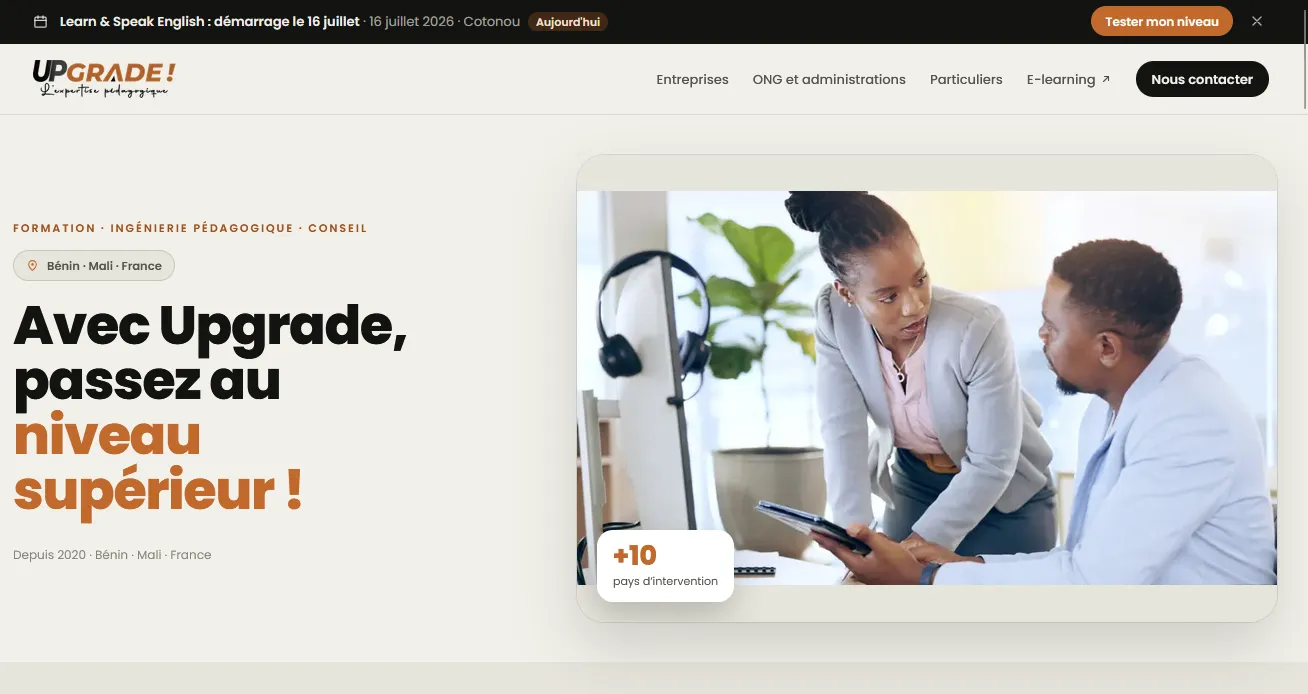
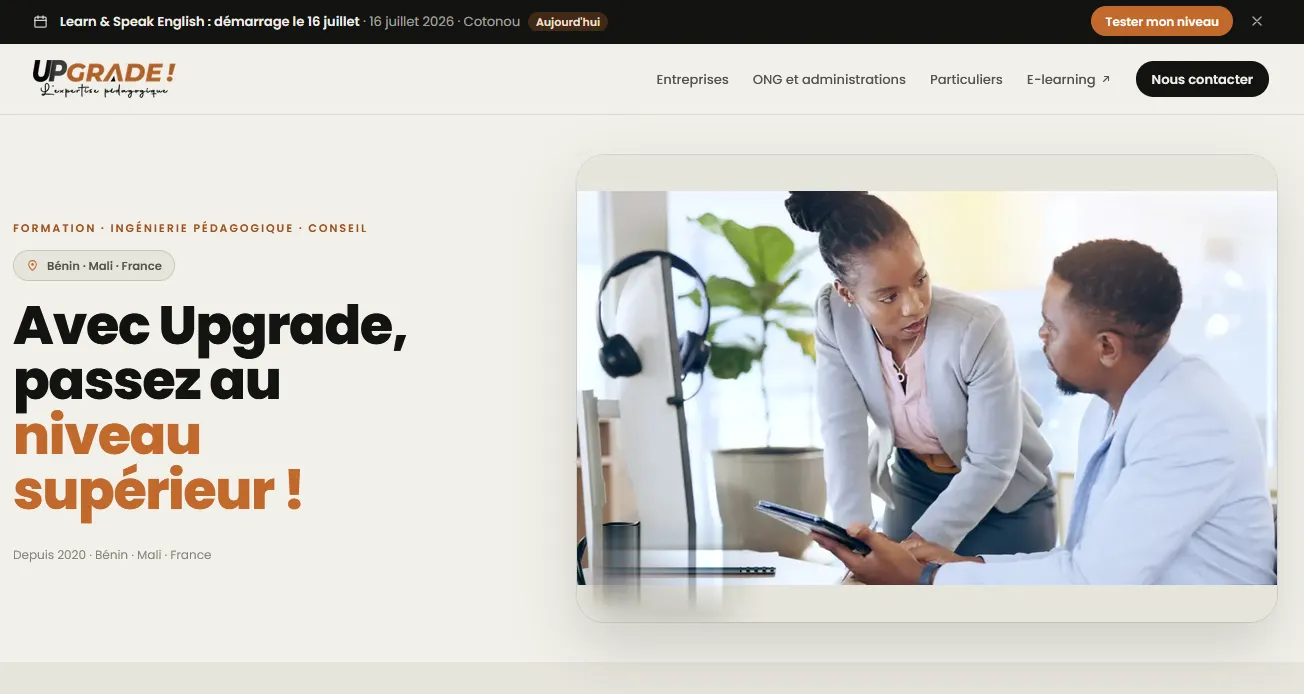
fix(v6): case-study JSON-LD roles and remaining capture redactions

diff --git a/tests/unit/case-jsonld.test.ts b/tests/unit/case-jsonld.test.ts
@@ -4,28 +4,48 @@ import { caseJsonLd } from '@/lib/seo/case-study';
 import { homeJsonLd } from '@/lib/seo/home-jsonld';
 import { PERSON_ID, SITE_URL } from '@/lib/site';
 
+const ROSTEL = { '@type': 'Person', '@id': PERSON_ID, name: 'Rostel Panoumassi' };
+
 describe('caseJsonLd', () => {
-  it('models a contribution project as the case study, about the product, not authored by the owner', async () => {
+  it('always authors the write-up as the full Person node', async () => {
     const p = (await getProject('realisation', 'fr', 'freelanceclub'))!;
     const ld = caseJsonLd(p, 'Freelance Club, étude de cas · Rostel Panoumassi');
     expect(ld.name).toBe('Freelance Club, étude de cas · Rostel Panoumassi');
-    expect(ld.about).toMatchObject({ '@type': 'CreativeWork', name: p.title });
-    expect(ld.author).toEqual({ '@id': PERSON_ID });
-    expect(JSON.stringify(ld.about)).not.toContain('Rostel');
+    expect(ld.author).toEqual(ROSTEL);
+    expect(ld.contributor).toBeUndefined();
+    expect(ld.dateCreated).toBeUndefined();
   });
 
-  it('keeps co-authors as contributors', async () => {
+  it('a lead or solo build makes Rostel the creator of the product, with its year', async () => {
+    const p = (await getProject('realisation', 'en', 'ubbfy'))!;
+    const about = caseJsonLd(p, 't').about as Record<string, unknown>;
+    expect(about).toMatchObject({ '@type': 'CreativeWork', name: p.title, dateCreated: String(p.year) });
+    expect(about.creator).toEqual([ROSTEL]);
+    expect(about.contributor).toBeUndefined();
+  });
+
+  it('an engineering contribution makes Rostel a contributor to the product', async () => {
+    for (const locale of ['fr', 'en'] as const) {
+      const p = (await getProject('realisation', locale, 'freelanceclub'))!;
+      const about = caseJsonLd(p, 't').about as Record<string, unknown>;
+      expect(about.contributor).toEqual([ROSTEL]);
+      expect(about.creator).toBeUndefined();
+    }
+  });
+
+  it('co-authors sit next to Rostel on the product, not on the case study', async () => {
     const p = (await getProject('realisation', 'en', 'contractiq'))!;
     const ld = caseJsonLd(p, 't');
-    expect(ld.contributor).toEqual([{ '@type': 'Person', name: 'Jérémie Zitti' }]);
-    expect(ld.author).toEqual({ '@id': PERSON_ID });
+    expect((ld.about as Record<string, unknown>).creator).toEqual([ROSTEL, { '@type': 'Person', name: 'Jérémie Zitti' }]);
+    expect(ld.contributor).toBeUndefined();
+    expect(ld.author).toEqual(ROSTEL);
   });
 
-  it('an exploration has no product url in about and is authored by the single person id', async () => {
+  it('an exploration is about the brand with no Rostel role, and is authored by Rostel', async () => {
     const p = (await getProject('exploration', 'en', 'procom'))!;
     const ld = caseJsonLd(p, 'Procom, redesign proposal · Rostel Panoumassi');
-    expect(ld.about).toEqual({ '@type': 'CreativeWork', name: p.title });
-    expect(ld.author).toEqual({ '@id': PERSON_ID });
+    expect(ld.about).toEqual({ '@type': 'CreativeWork', name: p.title, dateCreated: String(p.year) });
+    expect(ld.author).toEqual(ROSTEL);
   });
 });
 

diff --git a/src/lib/seo/case-study.ts b/src/lib/seo/case-study.ts
@@ -33,23 +33,43 @@ export function caseMetadata(p: Project, title: string): Metadata {
   };
 }
 
+const CONTRIBUTION_ROLE = /^(contribution|engineering contribution)/i;
+
+/** A contribution to someone else's product is `contributor`; a lead, solo or architecture role is `creator`. */
+export function ownerRelation(role: string): 'creator' | 'contributor' {
+  return CONTRIBUTION_ROLE.test(role.trim()) ? 'contributor' : 'creator';
+}
+
 /**
- * schema.org CreativeWork for the case study page itself (not for the product): the product is
- * `about`, Rostel authors the write-up only, and co-authors of the work are contributors.
+ * schema.org CreativeWork for the case study page itself (not for the product). Rostel authors the
+ * write-up; the product is `about`, carrying the product roles (Rostel and co-authors) and its year.
+ * An exploration is a proposal for someone else's site: `about` is that brand, without any Rostel role.
  */
 export function caseJsonLd(p: Project, title: string): Record<string, unknown> {
   const cover = p.images[0];
+  const self = { '@type': 'Person', '@id': PERSON_ID, name: OWNER.name };
+  const coauthors = p.coauthors.map((name) => ({ '@type': 'Person', name }));
+  const roles =
+    p.kind === 'exploration'
+      ? {}
+      : ownerRelation(p.role) === 'creator'
+        ? { creator: [self, ...coauthors] }
+        : { contributor: [self, ...coauthors] };
   return {
     '@context': 'https://schema.org',
     '@type': 'CreativeWork',
     name: title,
-    about: { '@type': 'CreativeWork', name: p.title, ...(p.liveUrl ? { url: p.liveUrl } : {}) },
+    about: {
+      '@type': 'CreativeWork',
+      name: p.title,
+      ...(p.liveUrl ? { url: p.liveUrl } : {}),
+      dateCreated: String(p.year),
+      ...roles,
+    },
     description: p.summary,
-    dateCreated: String(p.year),
     url: caseUrl(p),
     inLanguage: p.locale,
-    author: { '@id': PERSON_ID },
-    ...(p.coauthors.length > 0 ? { contributor: p.coauthors.map((name) => ({ '@type': 'Person', name })) } : {}),
+    author: self,
     ...(cover ? { image: new URL(cover.src, SITE_URL).toString() } : {}),
     keywords: p.stack.join(', '),
   };

diff --git a/tests/e2e/work.spec.ts b/tests/e2e/work.spec.ts
@@ -61,11 +61,17 @@ test.describe('work pages', () => {
     expect(data).toMatchObject({
       '@type': 'CreativeWork',
       name: 'ContractIQ, étude de cas · Rostel Panoumassi',
-      about: { '@type': 'CreativeWork', name: 'ContractIQ' },
-      dateCreated: '2026',
+      about: {
+        '@type': 'CreativeWork',
+        name: 'ContractIQ',
+        dateCreated: '2026',
+        creator: [
+          { '@type': 'Person', '@id': 'https://rostelmissimawu.com/#person', name: 'Rostel Panoumassi' },
+          { '@type': 'Person', name: 'Jérémie Zitti' },
+        ],
+      },
       url: 'https://rostelmissimawu.com/realisations/contractiq',
-      author: { '@id': 'https://rostelmissimawu.com/#person' },
-      contributor: [{ '@type': 'Person', name: 'Jérémie Zitti' }],
+      author: { '@type': 'Person', '@id': 'https://rostelmissimawu.com/#person', name: 'Rostel Panoumassi' },
     });
     const og = await page.locator('meta[property="og:image"]').getAttribute('content');
     expect(og).toContain('/realisations/contractiq/opengraph-image');

diff --git a/tests/unit/work-labels.test.ts b/tests/unit/work-labels.test.ts
@@ -1,0 +1,19 @@
+import { describe, expect, it } from 'vitest';
+import fr from '../../messages/fr.json';
+import en from '../../messages/en.json';
+import { STATUSES } from '@/lib/content/schema';
+import { NO_IMAGE_KEY } from '@/components/work/labels';
+
+describe('NO_IMAGE_KEY', () => {
+  it('maps every status to a note that exists in both locales', () => {
+    expect(Object.keys(NO_IMAGE_KEY).sort()).toEqual([...STATUSES].sort());
+    for (const messages of [fr, en]) {
+      const ns = (messages as unknown as Record<string, Record<string, string>>).caseStudy;
+      for (const key of Object.values(NO_IMAGE_KEY)) expect(ns[key]).toBeTruthy();
+    }
+  });
+  it('tells private and archived apart from the generic case', () => {
+    expect(NO_IMAGE_KEY.private).not.toBe(NO_IMAGE_KEY.archived);
+    expect(NO_IMAGE_KEY.live).toBe(NO_IMAGE_KEY.concept);
+  });
+});

diff --git a/src/lib/content/markdown.ts b/src/lib/content/markdown.ts
@@ -44,8 +44,8 @@ export function renderMarkdown(md: string): { html: string; headings: Heading[] 
         const inner = this.parser.parseInline(token.tokens);
         const href = token.href;
         if (!/^(https?:|\/|#|mailto:)/i.test(href)) return inner;
-        // `//host` is protocol-relative, hence external: only a single leading slash is internal.
-        const external = !/^(\/(?!\/)|#|mailto:)/i.test(href);
+        // `//host` is protocol-relative, hence external: only a single leading slash (not followed by / or \) is internal.
+        const external = !/^(\/(?![\/\\])|#|mailto:)/i.test(href);
         const title = token.title ? ` title="${escapeHtml(token.title)}"` : '';
         return `<a href="${escapeHtml(href)}"${title}${external ? ' rel="noopener"' : ''}>${inner}</a>`;
       },

diff --git a/src/components/work/WorkCard.tsx b/src/components/work/WorkCard.tsx
@@ -2,15 +2,8 @@ import { useTranslations } from 'next-intl';
 import { Link } from '@/i18n/navigation';
 import type { Project } from '@/lib/content/load';
 import { ExplorationBadge } from './ExplorationBadge';
-import { STATUS_KEY, caseHref, coverOf } from './labels';
+import { NO_IMAGE_KEY, STATUS_KEY, caseHref, coverOf } from './labels';
 import { WorkVisual } from './WorkVisual';
-
-const NO_IMAGE_KEY = {
-  private: 'noImagesPrivate',
-  archived: 'noImagesArchived',
-  live: 'noImagesOther',
-  concept: 'noImagesOther',
-} as const satisfies Record<Project['status'], string>;
 
 type Props = { project: Project; index: number; headingLevel?: 2 | 3 };
 

diff --git a/src/components/work/labels.ts b/src/components/work/labels.ts
@@ -7,6 +7,14 @@ export const STATUS_KEY = {
   concept: 'statusConcept',
 } as const satisfies Record<Project['status'], string>;
 
+/** Note shown on a card without a cover, keyed by project status. */
+export const NO_IMAGE_KEY = {
+  private: 'noImagesPrivate',
+  archived: 'noImagesArchived',
+  live: 'noImagesOther',
+  concept: 'noImagesOther',
+} as const satisfies Record<Project['status'], string>;
+
 export function caseHref(p: Pick<Project, 'kind' | 'slug'>) {
   return p.kind === 'realisation'
     ? ({ pathname: '/realisations/[slug]', params: { slug: p.slug } } as const)

diff --git a/tests/unit/content-engine.test.ts b/tests/unit/content-engine.test.ts
@@ -90,6 +90,10 @@ describe('renderMarkdown links and images', () => {
     expect(r.html).not.toMatch(/href="\/ok"[^>]*rel=/);
     expect(r.html).not.toMatch(/href="#top"[^>]*rel=/);
   });
+  it('treats a backslash after the leading slash as external', () => {
+    const r = renderMarkdown('[a](/\\host)');
+    expect(r.html).toMatch(/rel="noopener"/);
+  });
   it('refuses a body image with a clear error', () => {
     expect(() => renderMarkdown('![alt](/work/x/01.webp)')).toThrow(/Markdown images are not allowed/);
   });
